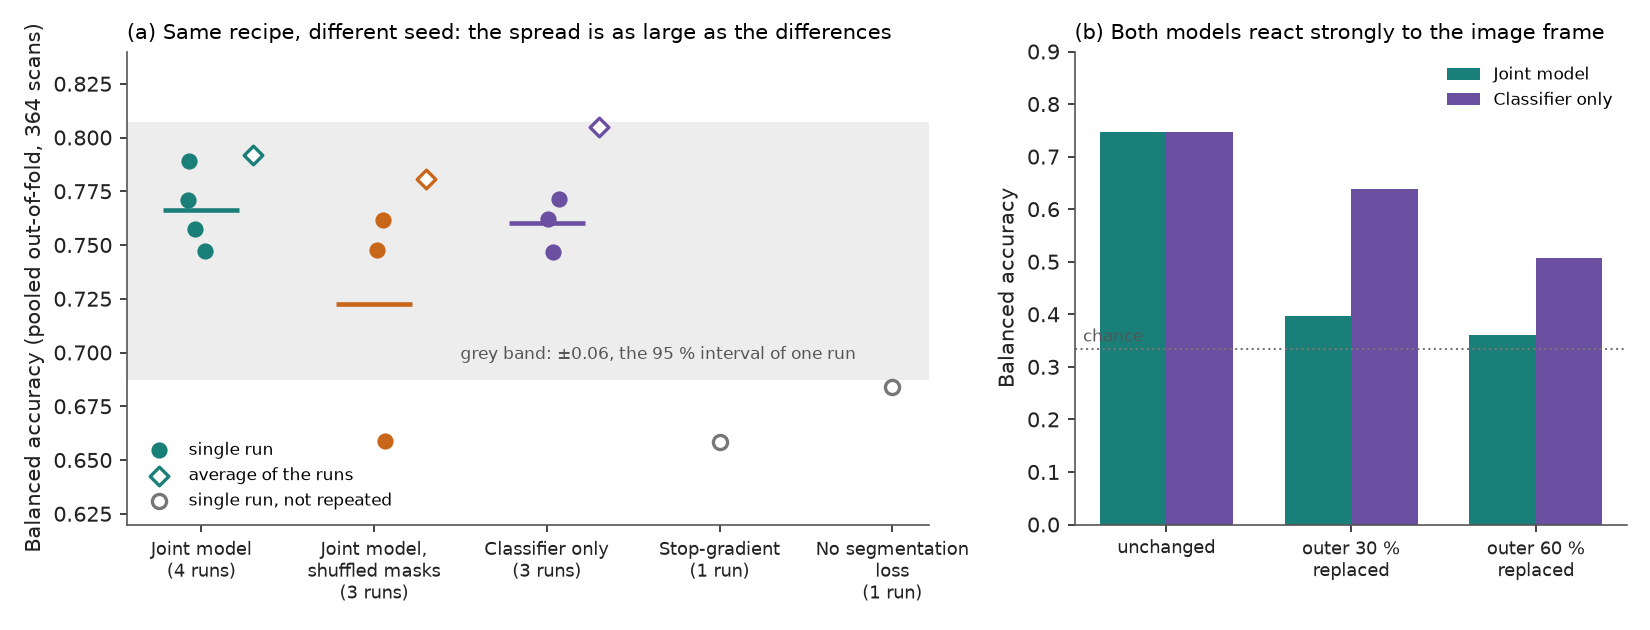
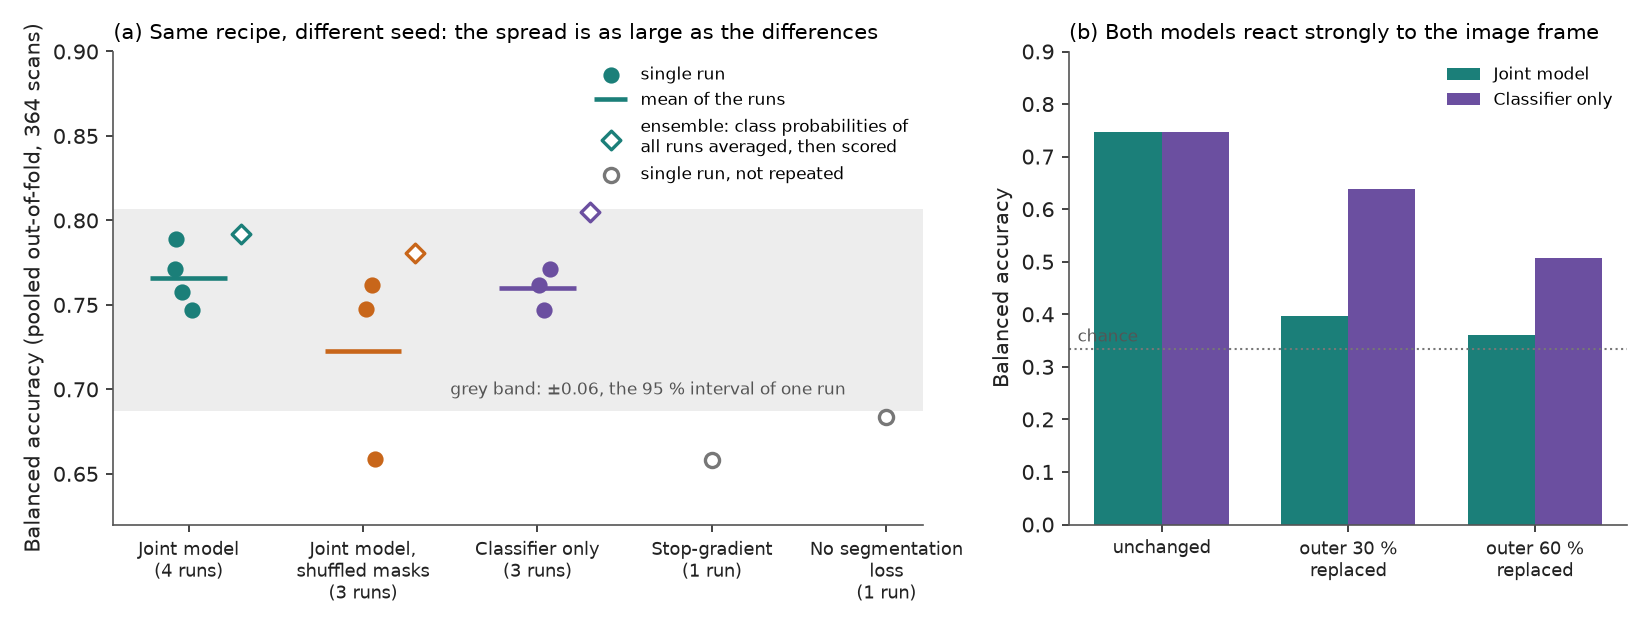
Figure: legend states that the diamond is an ensemble (probabilities averaged, then scored), mean of runs shown as a line

diff --git a/analysis/make_figures.py b/analysis/make_figures.py
@@ -34,20 +34,20 @@ rng = np.random.default_rng(0)
 for i, (name, col, runs) in enumerate(GROUPS):
     v = [bal(r) for r in runs if os.path.exists(f"runs/ILM_OPL_large_{r}/oof_probs.npy")]
     ax.scatter(i + rng.uniform(-0.08, 0.08, len(v)), v, s=46, color=col, zorder=3, label="single run" if i == 0 else None)
-    ax.hlines(np.mean(v), i - 0.22, i + 0.22, color=col, lw=2.2, zorder=2)
+    ax.hlines(np.mean(v), i - 0.22, i + 0.22, color=col, lw=2.2, zorder=2, label="mean of the runs" if i == 0 else None)
     e = ens([r for r in runs if os.path.exists(f"runs/ILM_OPL_large_{r}/oof_probs.npy")])
-    ax.scatter([i + 0.3], [e], marker="D", s=40, facecolor="white", edgecolor=col, lw=1.6, zorder=3, label="average of the runs" if i == 0 else None)
+    ax.scatter([i + 0.3], [e], marker="D", s=40, facecolor="white", edgecolor=col, lw=1.6, zorder=3, label="ensemble: class probabilities of\nall runs averaged, then scored" if i == 0 else None)
     labels.append(f"{name}\n({len(v)} runs)")
 for j, (name, r) in enumerate(SINGLE):
     i = len(GROUPS) + j
     ax.scatter([i], [bal(r)], s=46, facecolor="white", edgecolor="#777", lw=1.6, zorder=3, label="single run, not repeated" if j == 0 else None)
     labels.append(f"{name}\n(1 run)")
 ax.set_xticks(range(len(labels))); ax.set_xticklabels(labels, fontsize=8.5)
-ax.set_ylabel("Balanced accuracy (pooled out-of-fold, 364 scans)"); ax.set_ylim(0.62, 0.84)
+ax.set_ylabel("Balanced accuracy (pooled out-of-fold, 364 scans)"); ax.set_ylim(0.62, 0.90)
 ax.axhspan(0.747 - 0.06, 0.747 + 0.06, color="#bbb", alpha=0.25, lw=0, zorder=0)
 ax.text(1.5, 0.697, "grey band: ±0.06, the 95 % interval of one run", ha="left", fontsize=8, color="#555")
 ax.set_title("(a) Same recipe, different seed: the spread is as large as the differences", fontsize=10, loc="left")
-ax.legend(frameon=False, fontsize=8, loc="lower left")
+ax.legend(frameon=False, fontsize=8, loc="upper right")
 
 g = json.load(open("analysis/gradcam_results.json"))
 conds = [("none", "unchanged"), ("band15", "outer 30 %\nreplaced"), ("band30", "outer 60 %\nreplaced")]
